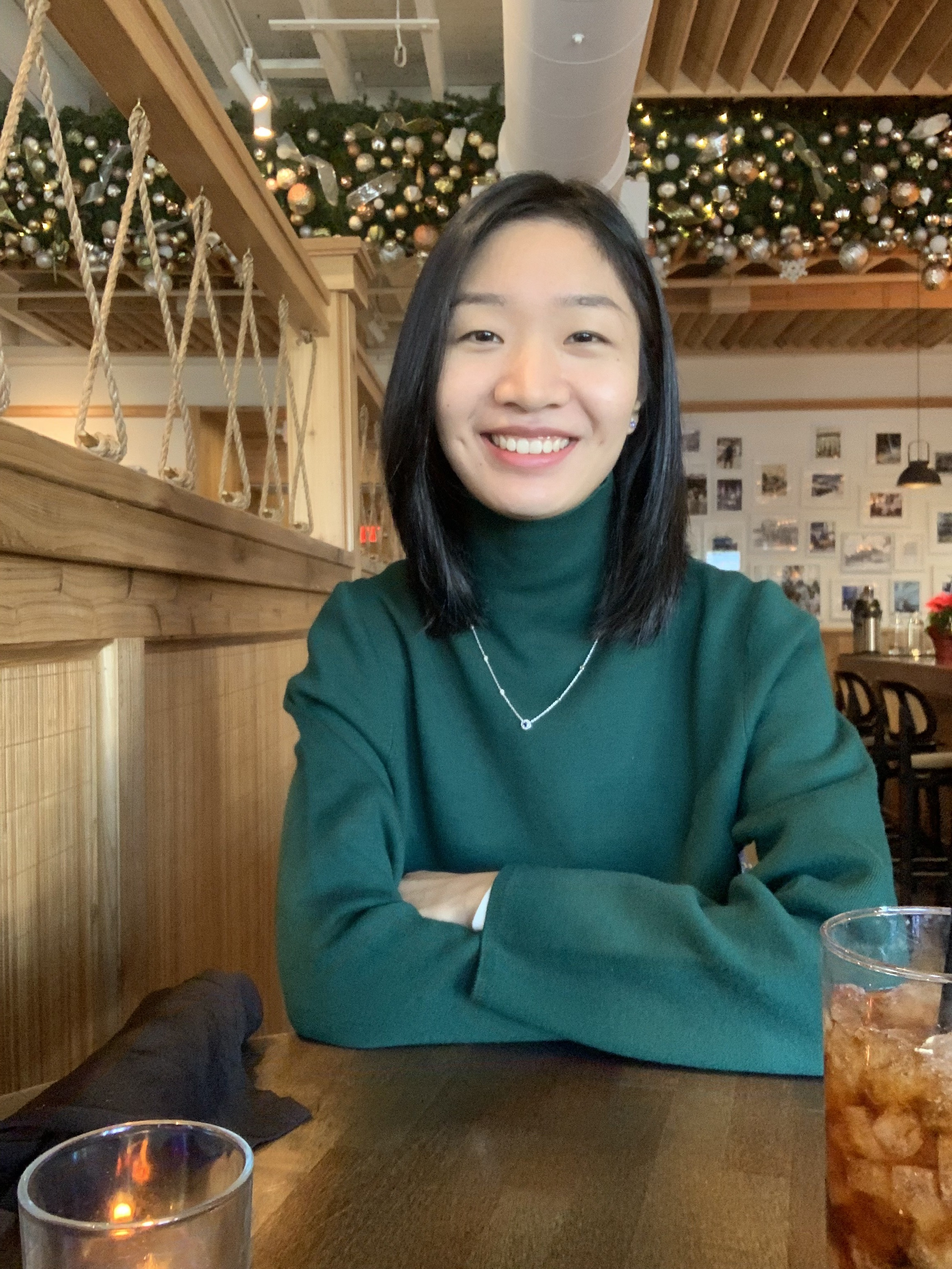
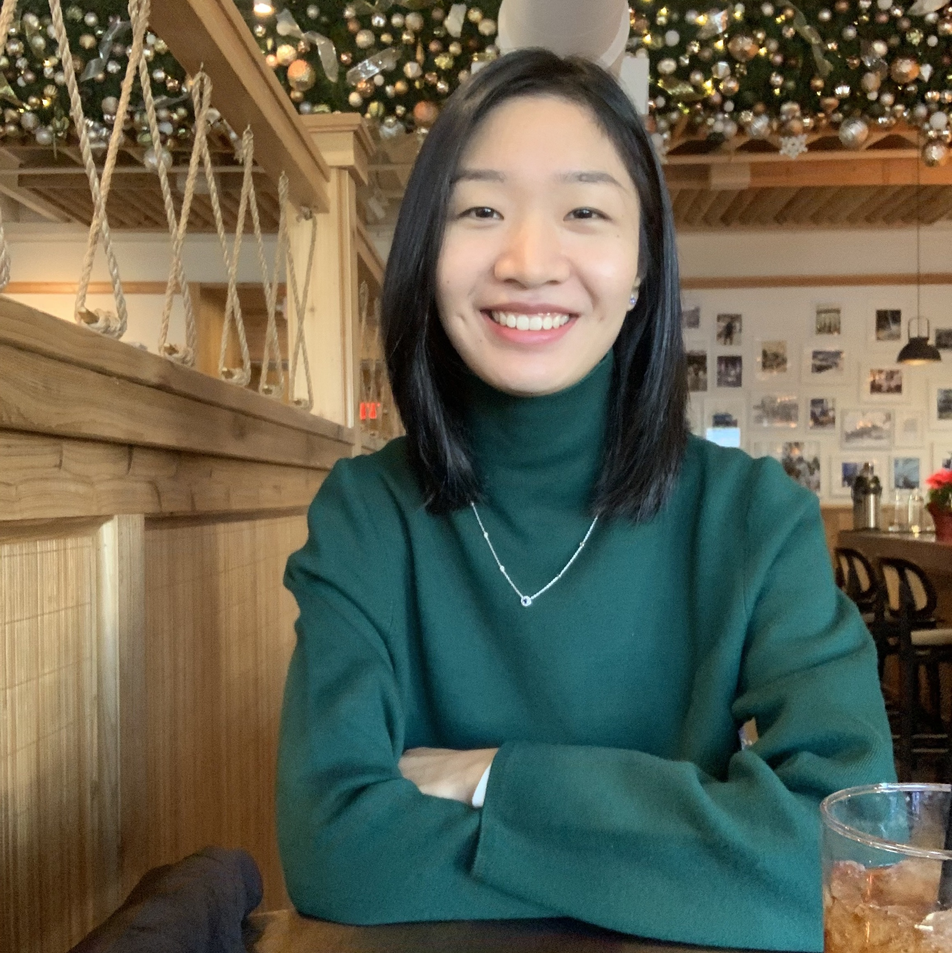
update author photo

diff --git a/index.html b/index.html
@@ -43,7 +43,7 @@
 		<aside id="colorlib-aside" role="complementary" class="js-fullheight text-center align-items-center">
 			<!-- <div style="height:250px; width: 250px;"> -->
 			<div class="circle-container" style="d-flex flex-wrap align-items-center; ">
-				<img src="./images/author3.jpg" class="img mb-4" style="width: 100%;
+				<img src="./images/gallery/NC.jpg" class="img mb-4" style="width: 100%;
 				height: auto; border-radius: 50%;">
 			</div>
 			<div class="" style="d-flex flex-wrap align-items-center">
